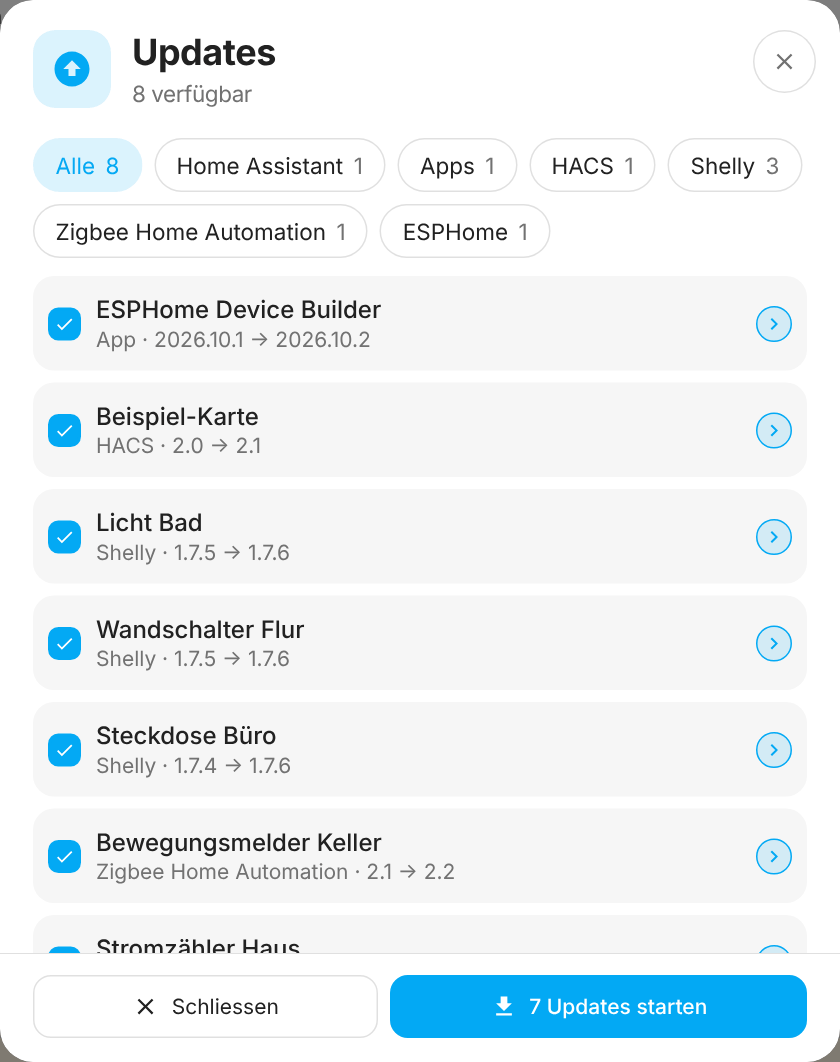
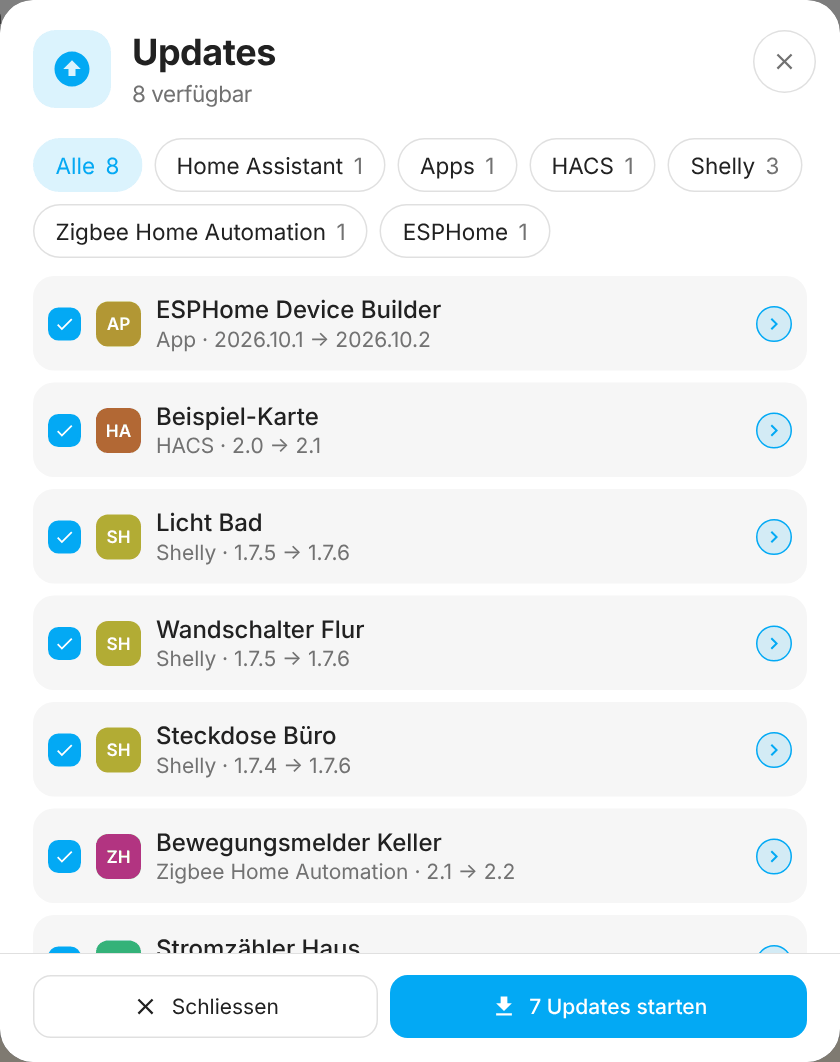
2.189.0: Symbole in der App "Updates"
Jede Zeile (Liste und Fortschritt) beginnt mit dem Logo ihrer Integration wie in der
Geräteliste: Geräte ihre Integration, HACS, Apps Supervisor, Home Assistant. Logos vom
Brand-Dienst der eigenen Instanz, ohne Logo die Anfangsbuchstaben. README-Bild neu,
CHANGELOG (DE/EN; 2.188.1 als nicht veröffentlicht vermerkt), HANDOVER, PANEL_VERSION 432.

Claude-Session: https://claude.ai/code/session_01U1q7hu4Br2u4E6fFdEJMgU

diff --git a/custom_components/device_panel/panel/updapp.js b/custom_components/device_panel/panel/updapp.js
@@ -154,6 +154,14 @@ export class UpdApp {
     return { name: d?.name || u.title, integ: kind === "devices" ? this.host._scopeName(u.platform) : this.t(`appupKind_${kind}`) };
   }
 
+  // Symbol der Zeile (seit 2.188.2): das Logo der Integration wie in der Geräteliste (Geräte: ihre Integration, HACS: HACS, Apps: Supervisor,
+  // Home Assistant: Home Assistant); Logos kommen vom Brand-Dienst der eigenen Instanz, ohne Logo stehen die Anfangsbuchstaben der Integration oder Art
+  badge(u) {
+    const kind = u.kind || "devices";
+    const domain = kind === "devices" ? u.platform : kind === "hacs" ? "hacs" : kind === "addons" ? "hassio" : "homeassistant";
+    return this.host._ibadge(domain, this.info(u).integ);
+  }
+
   // Chip einer Zeile: Geräte nach Integration, alles andere nach Art
   groupKey(u) {
     return !u.kind || u.kind === "devices" ? u.platform : `kind:${u.kind}`;
@@ -280,7 +288,7 @@ export class UpdApp {
     const { name, integ } = this.info(u);
     const on = this.ui.sel.has(u.entity_id);
     return `<div class="ua-row"><label class="ua-cb"><input type="checkbox" data-ua-sel="${escape(u.entity_id)}" ${on ? "checked" : ""} aria-label="${escape(name)}"><span>${mdi("check", 14)}</span></label>
-      <button type="button" class="ua-main" data-ua="info" data-entity="${escape(u.entity_id)}" data-device="${escape(u.device_id || "")}"><span class="ua-t"><b>${escape(name)}</b><small>${escape(integ)} · ${escape(u.installed ?? "?")} → ${escape(u.latest ?? "?")}</small>${this.restartKind(u) ? `<small class="ua-restart">${escape(this.t(this.restartKind(u) === "os" ? "appupRestartOs" : "appupRestartCore"))}</small>` : ""}</span><span class="cbtn" aria-hidden="true">${mdi("chevronRight", 16)}</span></button></div>`;
+      <button type="button" class="ua-main" data-ua="info" data-entity="${escape(u.entity_id)}" data-device="${escape(u.device_id || "")}">${this.badge(u)}<span class="ua-t"><b>${escape(name)}</b><small>${escape(integ)} · ${escape(u.installed ?? "?")} → ${escape(u.latest ?? "?")}</small>${this.restartKind(u) ? `<small class="ua-restart">${escape(this.t(this.restartKind(u) === "os" ? "appupRestartOs" : "appupRestartCore"))}</small>` : ""}</span><span class="cbtn" aria-hidden="true">${mdi("chevronRight", 16)}</span></button></div>`;
   }
 
   // Zustand einer gestarteten Zeile: Warteschlange des Servers, Fortschritt aus dem Zustand der Entität
@@ -325,6 +333,6 @@ export class UpdApp {
       line = s.gone ? t(x.kind === "addons" ? "updRebootingApp" : x.kind === "core" || x.kind === "hacs" ? "updRebootingOther" : "updRebooting") : finishing ? t("updFinishing") : s.percent != null ? t("updPercent", Math.round(s.percent)) : t("updRunning");
       extra = s.gone ? `<div class="upd-bar"><i style="width:100%"></i></div>` : s.percent != null ? `<div class="upd-bar" role="progressbar" aria-valuenow="${Math.round(s.percent)}" aria-valuemin="0" aria-valuemax="100"><i style="width:${Math.max(2, Math.min(100, s.percent))}%"></i></div>` : `<div class="ver-prog"><i></i></div>`;
     }
-    return `<div class="ua-row run ${s.kind}">${lead}<div class="ua-t"><b>${escape(name)}</b><small class="ua-st${cls}">${escape(line)}</small>${why ? `<small class="ua-why">${escape(why)}</small>` : ""}${s.kind === "running" ? extra : ""}</div>${s.kind === "failed" ? extra : ""}</div>`;
+    return `<div class="ua-row run ${s.kind}">${this.badge(x)}${lead}<div class="ua-t"><b>${escape(name)}</b><small class="ua-st${cls}">${escape(line)}</small>${why ? `<small class="ua-why">${escape(why)}</small>` : ""}${s.kind === "running" ? extra : ""}</div>${s.kind === "failed" ? extra : ""}</div>`;
   }
 }

diff --git a/custom_components/device_panel/const.py b/custom_components/device_panel/const.py
@@ -13,7 +13,7 @@ PANEL_HTML_FILE = "panel.html"
 STATIC_URL_PATH = f"/{DOMAIN}"
 PANEL_STATIC_URL_PATH = f"{STATIC_URL_PATH}/panel"
 # Cache-Buster: bei jeder Änderung unter panel/ von Hand erhöhen.
-PANEL_VERSION = "431"
+PANEL_VERSION = "432"
 PANEL_PAGE_URL = f"{PANEL_STATIC_URL_PATH}/{PANEL_HTML_FILE}?v={PANEL_VERSION}"
 
 # Mitgeliefertes Bild für Push-Meldungen (Companion-App, "icon_url"), wie in

diff --git a/CHANGELOG.de.md b/CHANGELOG.de.md
@@ -7,9 +7,21 @@ Alle nennenswerten Änderungen an dieser Integration stehen in dieser Datei.
 Das Format folgt [Keep a Changelog](https://keepachangelog.com/de/1.1.0/),
 die Versionsnummern folgen [Semantic Versioning](https://semver.org/lang/de/).
 
+## [2.189.0] - 2026-11-04
+
+Die App "Updates" zeigt vor jeder Zeile ein Symbol.
+
+Enthält die Änderungen von 2.188.1.
+
+### Geändert
+
+- **App "Updates", Symbole:** Jede Zeile, in der Liste und in der Ansicht des Fortschritts, beginnt jetzt mit dem Logo ihrer Integration, wie in der Geräteliste: bei Geräten die Integration, bei HACS HACS, bei Apps der Supervisor, bei Core, Betriebssystem und Supervisor Home Assistant. Die Logos kommen vom Brand-Dienst deiner eigenen Home-Assistant-Instanz (nichts geht ins Internet); ohne Logo stehen die Anfangsbuchstaben der Integration oder Art da.
+
 ## [2.188.1] - 2026-11-03
 
 Das Geräte-Popup sieht auf einem schmalen Handy richtig aus, die Markierung des Sammelausfalls im Ausfall-Puls ist ruhiger, und die README-Bilder des Popups sind neu.
+
+Nicht veröffentlicht; enthalten in 2.189.0.
 
 ### Behoben
 
@@ -5616,7 +5628,7 @@ Erste Vorabversion.
   GitHub Actions für die Prüfungen von HACS und hassfest sowie die Tests.
 
 [2.6.0]: https://github.com/Diegofuego871/ha-device-panel/releases/tag/v2.6.0
-[2.188.1]: https://github.com/Diegofuego871/ha-device-panel/releases/tag/v2.188.1
+[2.189.0]: https://github.com/Diegofuego871/ha-device-panel/releases/tag/v2.189.0
 [2.188.0]: https://github.com/Diegofuego871/ha-device-panel/releases/tag/v2.188.0
 [2.187.0]: https://github.com/Diegofuego871/ha-device-panel/releases/tag/v2.187.0
 [2.186.1]: https://github.com/Diegofuego871/ha-device-panel/releases/tag/v2.186.1

diff --git a/CHANGELOG.md b/CHANGELOG.md
@@ -7,9 +7,21 @@ All notable changes to this integration are documented in this file.
 The format is based on [Keep a Changelog](https://keepachangelog.com/en/1.1.0/),
 and this project adheres to [Semantic Versioning](https://semver.org/).
 
+## [2.189.0] - 2026-11-04
+
+The app "Updates" shows an icon in front of every row.
+
+Includes the changes from 2.188.1.
+
+### Changed
+
+- **App "Updates", icons:** every row, in the list and in the progress view, now starts with the logo of its integration, as in the device list: the integration for devices, HACS for HACS, the Supervisor for apps, Home Assistant for Core, operating system and Supervisor. The logos come from the brand service of your own Home Assistant (nothing goes to the internet); without a logo the initials of the integration or kind stand there.
+
 ## [2.188.1] - 2026-11-03
 
 The device pop-up looks right on a narrow phone, the group-outage mark in the outage pulse is calmer, and the README pop-up images are renewed.
+
+Not released; included in 2.189.0.
 
 ### Fixed
 
@@ -5515,7 +5527,7 @@ First pre-release.
   GitHub Actions for HACS/hassfest validation and tests.
 
 [2.6.0]: https://github.com/Diegofuego871/ha-device-panel/releases/tag/v2.6.0
-[2.188.1]: https://github.com/Diegofuego871/ha-device-panel/releases/tag/v2.188.1
+[2.189.0]: https://github.com/Diegofuego871/ha-device-panel/releases/tag/v2.189.0
 [2.188.0]: https://github.com/Diegofuego871/ha-device-panel/releases/tag/v2.188.0
 [2.187.0]: https://github.com/Diegofuego871/ha-device-panel/releases/tag/v2.187.0
 [2.186.1]: https://github.com/Diegofuego871/ha-device-panel/releases/tag/v2.186.1

diff --git a/docs/HANDOVER.md b/docs/HANDOVER.md
@@ -3,6 +3,10 @@
 Einstieg für jede neue Claude-Code-Session. Zuerst diese Datei lesen, dann
 `CLAUDE.md`, `docs/CONCEPT.md`, `docs/LEARNINGS.md`, `docs/DESIGN.md`.
 
+## Stand (2.189.0, Symbole in der App "Updates")
+
+- `UpdApp.badge(u)` setzt vor jede Zeile (Liste und Fortschritt) das Logo der Integration über `host._ibadge` (Geräte: Plattform, HACS: `hacs`, Apps: `hassio`, Core/Betriebssystem/Supervisor: `homeassistant`); ohne Logo die Anfangsbuchstaben von `info(u).integ`. Logos vom Brand-Dienst der eigenen Instanz, nichts geht ins Internet (daher kein `entity_picture` der Update-Entität: es zeigt oft auf das Internet oder braucht Anmeldung). Bild `updates.png` neu.
+
 ## Stand (2.188.1, Popup auf dem Handy)
 
 - Die Warnmarken (`.why-tags.dlg-why`, Wert in `<span class="wv">`, ohne Punkt) stehen unter dem Popup-Kopf über die ganze Breite, klein und in einer Zeile (nicht mehr in der schmalen Spalte neben dem Namen); Kacheln mit Pfeil (`.st-tile:has(> .chev) .st-sub`) lassen Platz für den Pfeil. Sammelausfall im Ausfall-Puls: `.imark` ist nur noch die gestrichelte senkrechte Linie in neutraler Farbe, ohne Punkt. Test: Suite `warnwhy`. README-Bilder `popup.png` und `popup-mobile.png` neu (`readme-shots.mjs`: für das Handybild ein Fenster mit 1070 px Höhe, damit keine Abschnitte hinter der festen Leiste verschwinden).

diff --git a/README.de.md b/README.de.md
@@ -266,7 +266,7 @@ Schaltet eine Entität eines Geräts einmalig oder nach Zeitplan, ohne Automatio
 
 ## Updates
 
-Die App "Updates" (Administratoren) listet jedes offene Update, das Home Assistant kennt, in einem Fenster und startet sie von dort.
+Die App "Updates" (Administratoren) listet jedes offene Update, das Home Assistant kennt, in einem Fenster und startet sie von dort. Jede Zeile trägt das Logo ihrer Integration.
 
 - **Was sie listet:** Geräte (Firmware), Apps (Add-ons), HACS / Marketplace, Home Assistant Core, Betriebssystem und Supervisor. Eine Zeile ohne Gerät (App, HACS, Home Assistant) öffnet den Dialog von Home Assistant mit den Release Notes.
 - **Wählen:** Chips nach Art (Home Assistant, Apps, HACS) und nach Integration der Geräte wählen vor, Häkchen verfeinern, ein Knopf startet die Auswahl nach einer Bestätigung, auf Wunsch mit vorheriger Sicherung, wo das Update sie kann.

diff --git a/README.md b/README.md
@@ -266,7 +266,7 @@ Switches an entity of a device once or on a schedule, without an automation.
 
 ## Updates
 
-The app "Updates" (administrators) lists every open update Home Assistant knows in one window and starts them from there.
+The app "Updates" (administrators) lists every open update Home Assistant knows in one window and starts them from there. Every row carries the logo of its integration.
 
 - **What it lists:** devices (firmware), apps (add-ons), HACS / Marketplace, Home Assistant Core, operating system and Supervisor. A row without a device (app, HACS, Home Assistant) opens the dialog of Home Assistant with the release notes.
 - **Choose:** chips by kind (Home Assistant, Apps, HACS) and by integration of the devices preselect, checkboxes refine, one button starts the selection after a confirmation, optionally with a backup first where the update supports it.
